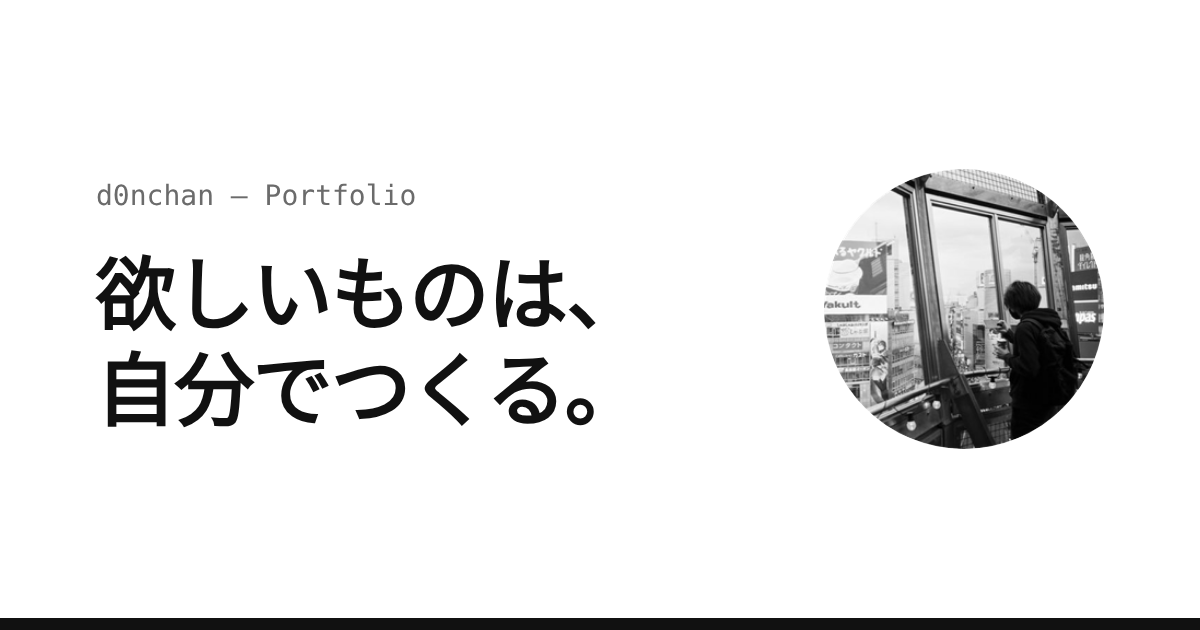
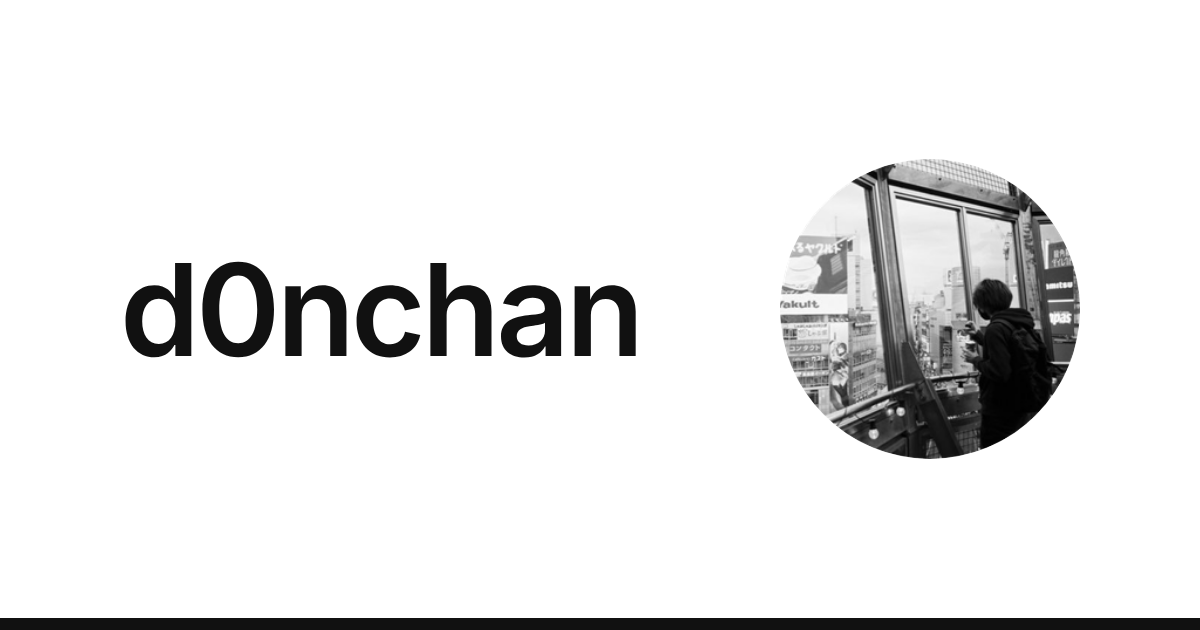
Remove top hero section and update OGP image from latest zip

diff --git a/index.html b/index.html
@@ -39,7 +39,7 @@ a{color:var(--fg);text-decoration:none}a:hover{color:var(--hover)}
 <div style="font-family: Inter, 'Noto Sans JP', sans-serif; color: var(--fg); background: var(--bg); min-height: 100vh">
 <div style="max-width: 1200px; margin: 0 auto; padding: 0 clamp(16px, 4vw, 48px)">
 
-<header style="display: flex; flex-wrap: wrap; justify-content: space-between; align-items: center; gap: 16px; padding: 28px 0; border-bottom: 1px solid var(--line)">
+<header id="top" style="display: flex; flex-wrap: wrap; justify-content: space-between; align-items: center; gap: 16px; padding: 28px 0; border-bottom: 1px solid var(--line)">
 <a href="#top" style="font-weight: 600; font-size: 17px; letter-spacing: -0.01em">d0nchan</a>
 <nav aria-label="メイン" class="site-nav" style="display: flex; flex-wrap: wrap; gap: 4px 28px; font-size: 14px">
 <a href="#about" style="padding: 12px 0">About</a>
@@ -51,24 +51,16 @@ a{color:var(--fg);text-decoration:none}a:hover{color:var(--hover)}
 <button type="button" class="theme-toggle" aria-label="ライト／ダークの切り替え" title="ライト／ダークの切り替え"><svg width="16" height="16" viewBox="0 0 16 16" aria-hidden="true"><circle cx="8" cy="8" r="6.25" fill="none" stroke="currentColor" stroke-width="1.5"></circle><path d="M8 1.75a6.25 6.25 0 0 1 0 12.5z" fill="currentColor"></path></svg></button>
 </header>
 
-<section id="top" style="padding: clamp(80px, 12vw, 160px) 0 clamp(72px, 10vw, 128px); display: flex; flex-direction: column; gap: 40px">
-<p style="margin: 0; font-family: 'JetBrains Mono', monospace; font-size: 13px; color: var(--muted); letter-spacing: 0.04em">Full-stack Engineer</p>
-<h1 style="margin: 0; font-family: 'Noto Sans JP', sans-serif; font-weight: 700; font-size: clamp(32px, 6.4vw, 88px); line-height: 1.18; letter-spacing: -0.02em">欲しいものは、<br>自分でつくる。</h1>
-<p style="margin: 0; max-width: 640px; font-family: 'Noto Sans JP', sans-serif; font-size: 17px; line-height: 1.9; color: var(--fg2)">d0nchan（どんちゃん）。自分が使いたいWebアプリやモバイルアプリを、企画から運用まで一人でつくっています。</p>
-<div style="display: flex; flex-wrap: wrap; gap: 12px">
-<a href="#work" style="display: inline-flex; align-items: center; min-height: 48px; padding: 0 24px; background: var(--fg); color: var(--bg); font-size: 15px; font-weight: 500">実績を見る</a>
-<a href="#contact" style="display: inline-flex; align-items: center; min-height: 48px; padding: 0 24px; border: 1px solid var(--fg); font-size: 15px; font-weight: 500">お問い合わせ</a>
-</div>
-</section>
+<h1 style="position: absolute; width: 1px; height: 1px; margin: -1px; padding: 0; overflow: hidden; clip: rect(0 0 0 0); white-space: nowrap; border: 0">d0nchan（どんちゃん）のポートフォリオ</h1>
 
-<section id="about" style="padding: 96px 0; border-top: 1px solid var(--line); display: flex; flex-wrap: wrap; gap: 48px">
+<section id="about" style="padding: 96px 0; display: flex; flex-wrap: wrap; gap: 48px">
 <div style="flex: 1 1 240px">
 <p style="margin: 0; font-family: 'JetBrains Mono', monospace; font-size: 13px; color: var(--muted)">01 — About</p>
 <h2 style="margin: 16px 0 0; font-size: 32px; font-weight: 600; letter-spacing: -0.01em">経歴・スキル</h2>
 </div>
 <div style="flex: 999 1 560px; min-width: 0; display: flex; flex-direction: column; gap: 64px">
 <div style="display: flex; flex-wrap: wrap; align-items: flex-start; gap: 24px 32px">
-<img src="assets/avatar.webp" width="400" height="400" loading="lazy" alt="d0nchanのアイコン。展望台から街の景色を撮る後ろ姿" style="width: 120px; height: 120px; flex: 0 0 120px; border-radius: 50%; object-fit: cover; display: block; background: var(--sub); filter: grayscale(1)">
+<img src="assets/avatar.webp" width="400" height="400" alt="d0nchanのアイコン。展望台から街の景色を撮る後ろ姿" style="width: 120px; height: 120px; flex: 0 0 120px; border-radius: 50%; object-fit: cover; display: block; background: var(--sub); filter: grayscale(1)">
 <p style="flex: 1 1 320px; min-width: 0; margin: 0; font-family: 'Noto Sans JP', sans-serif; font-size: 17px; line-height: 2; color: var(--fg2)">フロントエンドからインフラ、データ基盤までを一人で通して設計・実装できるフルスタックエンジニアです。<br>株式会社HCプロデュースに一人目のエンジニアとして参画し、エンジニアリングマネージャーを経てCTOとなり、人的資本SaaSの開発と開発チームづくりを担っています。週末はFoursquare/Swarmのコミュニティ活動をしています。</p>
 </div>
 
